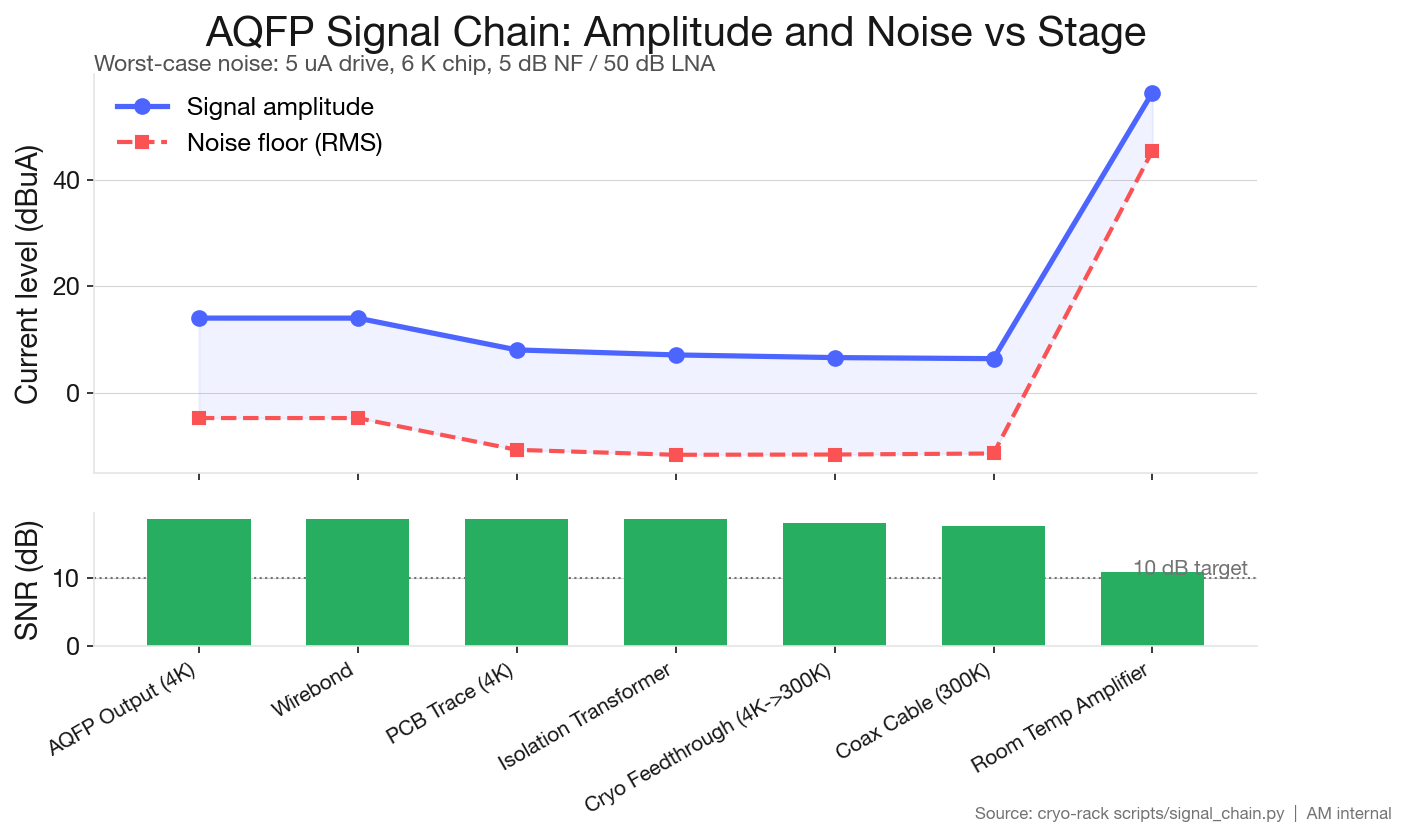
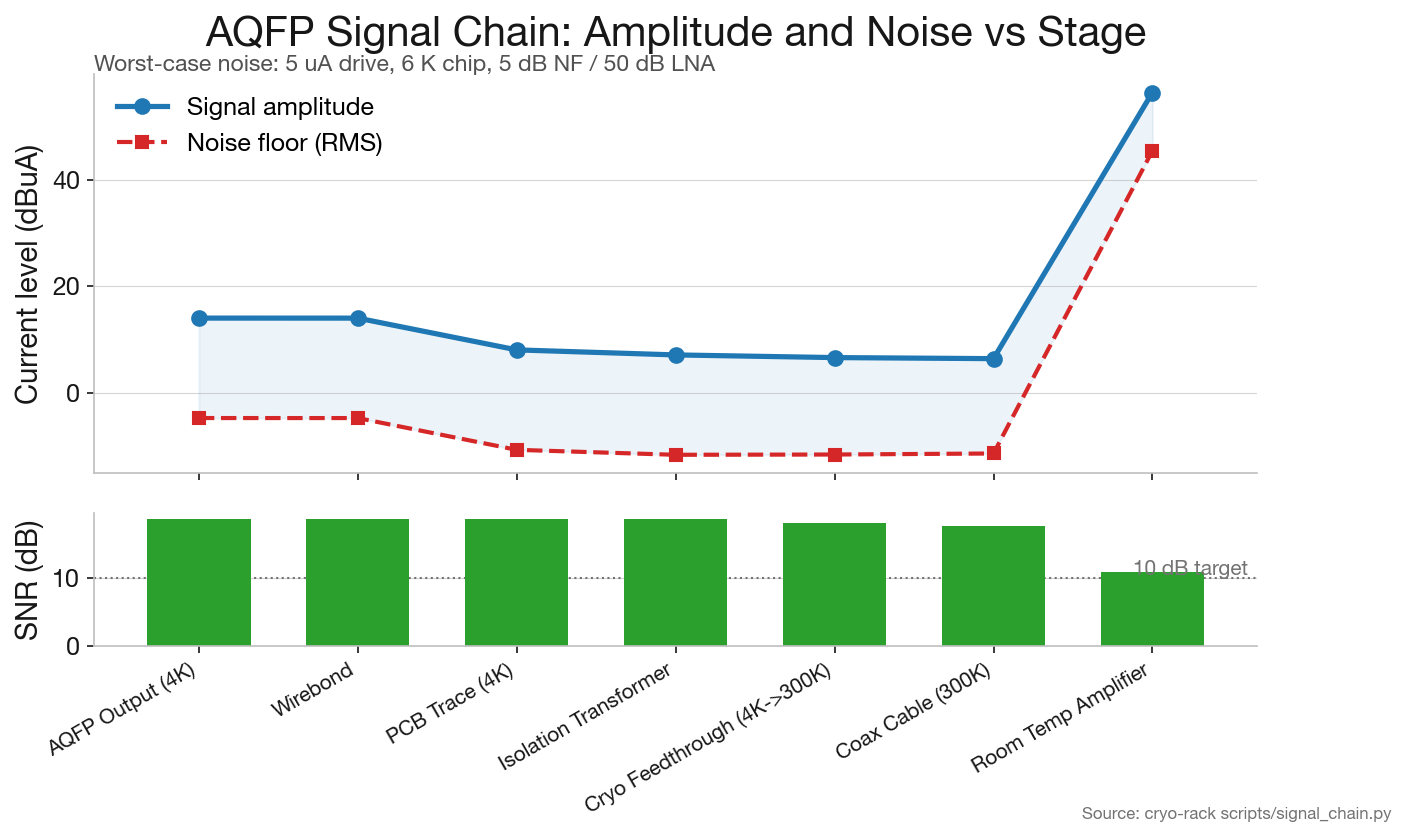
signal chain plot: drop AM-specific branding, keep quality principles
cryo-rack is CBA-first / shared; remove AM brand palette (#4d65ff accent,
Geist font preference, "AM internal" citation, "Adiabatic Machines BRAND.md"
references). Use a neutral scientific palette (tab:blue / tab:red), generic
sans-serif fallback chain, and a plain source citation.

Quality principles retained: white background, hidden top/right spines,
subtle grid (alpha=0.3), 16:9 at 150 DPI, bold title + labels with units,
source citation bottom-right.

3 PNG fixtures regenerated. 44/44 tests pass.

diff --git a/scripts/signal_chain_plot.py b/scripts/signal_chain_plot.py
@@ -2,9 +2,8 @@
 """
 Signal Chain Waterfall Plot
 
-Renders a brand-compliant (Adiabatic Machines BRAND.md) waterfall chart
-of signal amplitude and noise floor at each stage of the signal chain
-from `scripts/signal_chain.py`.
+Renders a waterfall chart of signal amplitude and noise floor at each
+stage of the signal chain from `scripts/signal_chain.py`.
 
 Usage:
     python3 scripts/signal_chain_plot.py
@@ -15,13 +14,9 @@ Outputs a PNG to `docs/assets/signal_chain_waterfall.png` by default.
 The figure is committed to the repo as a fixture for documentation and
 dashboard discoverability.
 
-Brand compliance (BRAND.md):
-  - White background, Geist font (falls back to sans-serif)
-  - #4d65ff accent for signal trace
-  - #fb5353 for noise floor
-  - 16:9 aspect ratio, 150 DPI
-  - Title, axis labels with units, subtle grid alpha=0.3
-  - Source citation in small italic at bottom-right
+Styling: white background, sans-serif, 16:9 at 150 DPI, hidden top/right
+spines, subtle grid, source citation bottom-right. Neutral palette — no
+organization-specific colors.
 """
 
 from __future__ import annotations
@@ -47,65 +42,62 @@ from signal_chain import (  # noqa: E402
 
 
 # ---------------------------------------------------------------------------
-# Brand palette (BRAND.md, single source of truth in planner-repo)
+# Neutral plot palette
 # ---------------------------------------------------------------------------
 
-BRAND = {
-    "accent":      "#4d65ff",  # Primary accent: signal trace
+STYLE = {
+    "signal":      "#1f77b4",  # tab:blue — signal trace
+    "noise":       "#d62728",  # tab:red — noise floor
     "background":  "#ffffff",
     "foreground":  "#171717",
     "text_sec":    "#525252",
     "text_muted":  "#737373",
-    "border":      "#e5e5e5",
-    "success":     "#27ae60",  # SNR > 10 dB margin
-    "warning":     "#f39c12",
-    "error":       "#e74c3c",  # SNR < 10 dB target
-    "aqfp_teal":   "#2a9d8f",
-    "noise_red":   "#fb5353",
-    "baseline":    "#264653",
+    "border":      "#bfbfbf",
+    "success":     "#2ca02c",  # SNR > 10 dB margin
+    "error":       "#d62728",  # SNR < 10 dB target
 }
 
 
 def _resolve_font_family() -> List[str]:
-    """Return Geist if installed, else fall back to system sans-serif silently."""
+    """Pick the first installed sans-serif from a generic preference list."""
     try:
         from matplotlib import font_manager
         installed = {f.name for f in font_manager.fontManager.ttflist}
     except Exception:
         installed = set()
     chain = []
-    for candidate in ("Geist", "Inter", "Helvetica Neue", "Arial"):
+    for candidate in ("Helvetica Neue", "Helvetica", "Arial", "DejaVu Sans"):
         if candidate in installed:
             chain.append(candidate)
     chain.append("sans-serif")
     return chain
 
 
-def _setup_brand_style() -> None:
-    """Apply BRAND.md typography and figure defaults to matplotlib."""
+def _setup_plot_style() -> None:
+    """Apply typography and figure defaults to matplotlib."""
     import matplotlib as mpl
 
     mpl.rcParams.update({
-        "figure.facecolor":  BRAND["background"],
-        "axes.facecolor":    BRAND["background"],
-        "savefig.facecolor": BRAND["background"],
+        "figure.facecolor":  STYLE["background"],
+        "axes.facecolor":    STYLE["background"],
+        "savefig.facecolor": STYLE["background"],
         "savefig.dpi":       150,
         "figure.dpi":        150,
         "font.family":       _resolve_font_family(),
-        "axes.edgecolor":    BRAND["border"],
-        "axes.labelcolor":   BRAND["foreground"],
-        "axes.titlecolor":   BRAND["foreground"],
+        "axes.edgecolor":    STYLE["border"],
+        "axes.labelcolor":   STYLE["foreground"],
+        "axes.titlecolor":   STYLE["foreground"],
         "axes.titlesize":    20,
         "axes.titleweight":  "bold",
         "axes.labelsize":    14,
         "axes.labelweight":  "bold",
-        "xtick.color":       BRAND["foreground"],
-        "ytick.color":       BRAND["foreground"],
+        "xtick.color":       STYLE["foreground"],
+        "ytick.color":       STYLE["foreground"],
         "xtick.labelsize":   12,
         "ytick.labelsize":   12,
         "legend.fontsize":   12,
         "legend.frameon":    False,
-        "grid.color":        BRAND["text_muted"],
+        "grid.color":        STYLE["text_muted"],
         "grid.alpha":        0.3,
         "grid.linewidth":    0.5,
     })
@@ -171,7 +163,7 @@ def render_waterfall(
     title: str = "AQFP Signal Chain: Amplitude and Noise vs Stage",
     subtitle: str | None = None,
 ) -> Path:
-    """Render a brand-compliant waterfall chart of signal and noise vs stage.
+    """Render a waterfall chart of signal and noise vs stage.
 
     The y-axis is in dBuA (dB relative to 1 uA): this is a current-mode
     measurement chain, and dBuA puts the AQFP source (10 uA = +20 dBuA),
@@ -182,7 +174,7 @@ def render_waterfall(
     """
     import matplotlib.pyplot as plt
 
-    _setup_brand_style()
+    _setup_plot_style()
 
     states = chain.propagate()
     names = [c.name for c in chain.components]
@@ -200,31 +192,31 @@ def render_waterfall(
     x = list(range(len(names)))
 
     # Top: signal & noise waterfall
-    ax.plot(x, sig_dBuA, color=BRAND["accent"], marker="o", markersize=7,
+    ax.plot(x, sig_dBuA, color=STYLE["signal"], marker="o", markersize=7,
             linewidth=2.5, label="Signal amplitude", zorder=3)
-    ax.plot(x, noise_dBuA, color=BRAND["noise_red"], marker="s", markersize=6,
+    ax.plot(x, noise_dBuA, color=STYLE["noise"], marker="s", markersize=6,
             linewidth=2.0, linestyle="--", label="Noise floor (RMS)", zorder=2)
     ax.fill_between(x, noise_dBuA, sig_dBuA,
                     where=[s > n for s, n in zip(sig_dBuA, noise_dBuA)],
-                    color=BRAND["accent"], alpha=0.08, zorder=1)
+                    color=STYLE["signal"], alpha=0.08, zorder=1)
 
     ax.set_ylabel("Current level (dBuA)")
     ax.set_title(title, pad=14)
     if subtitle:
         ax.text(0.0, 1.01, subtitle, transform=ax.transAxes,
-                fontsize=11, color=BRAND["text_sec"])
+                fontsize=11, color=STYLE["text_sec"])
     ax.grid(True, axis="y")
     ax.legend(loc="upper left")
     for spine in ("top", "right"):
         ax.spines[spine].set_visible(False)
 
     # Bottom: SNR bar
-    bar_colors = [BRAND["success"] if s >= 10.0 else BRAND["error"] for s in snrs]
+    bar_colors = [STYLE["success"] if s >= 10.0 else STYLE["error"] for s in snrs]
     ax_snr.bar(x, snrs, color=bar_colors, width=0.65, zorder=2)
-    ax_snr.axhline(10.0, color=BRAND["text_muted"], linewidth=1.0,
+    ax_snr.axhline(10.0, color=STYLE["text_muted"], linewidth=1.0,
                    linestyle=":", zorder=1)
     ax_snr.text(len(x) - 0.4, 10.5, "10 dB target",
-                fontsize=10, color=BRAND["text_muted"], ha="right")
+                fontsize=10, color=STYLE["text_muted"], ha="right")
     ax_snr.set_ylabel("SNR (dB)")
     ax_snr.set_xticks(x)
     ax_snr.set_xticklabels(names, rotation=30, ha="right", fontsize=10)
@@ -235,13 +227,13 @@ def render_waterfall(
     # Source citation: place below the rotated x-tick labels so it never overlaps
     fig.subplots_adjust(bottom=0.22, top=0.90)
     fig.text(0.99, 0.01,
-             "Source: cryo-rack scripts/signal_chain.py  |  AM internal",
-             fontsize=8, style="italic", color=BRAND["text_muted"],
+             "Source: cryo-rack scripts/signal_chain.py",
+             fontsize=8, style="italic", color=STYLE["text_muted"],
              ha="right", va="bottom")
 
     out_path.parent.mkdir(parents=True, exist_ok=True)
     fig.savefig(out_path, dpi=150, bbox_inches="tight",
-                facecolor=BRAND["background"])
+                facecolor=STYLE["background"])
     plt.close(fig)
     return out_path
 
@@ -263,8 +255,8 @@ def headline_numbers(chain: SignalChain) -> Tuple[float, float, str]:
 def main() -> None:
     parser = argparse.ArgumentParser(
         description=(
-            "Render brand-compliant waterfall chart of the AQFP signal "
-            "chain. Default: nominal scenario, saved to "
+            "Render a waterfall chart of the AQFP signal chain. "
+            "Default: nominal scenario, saved to "
             "docs/assets/signal_chain_waterfall.png"
         ),
     )

diff --git a/tests/test_signal_chain.py b/tests/test_signal_chain.py
@@ -706,7 +706,7 @@ class TestScenarios:
 # ---------------------------------------------------------------------------
 
 class TestPlot:
-    """Smoke tests for the brand-compliant waterfall plot.
+    """Smoke tests for the waterfall plot.
 
     Renders the chart to a tmp_path and verifies a PNG was emitted. We
     do not pixel-diff (brittle); we only check the discoverable artifact